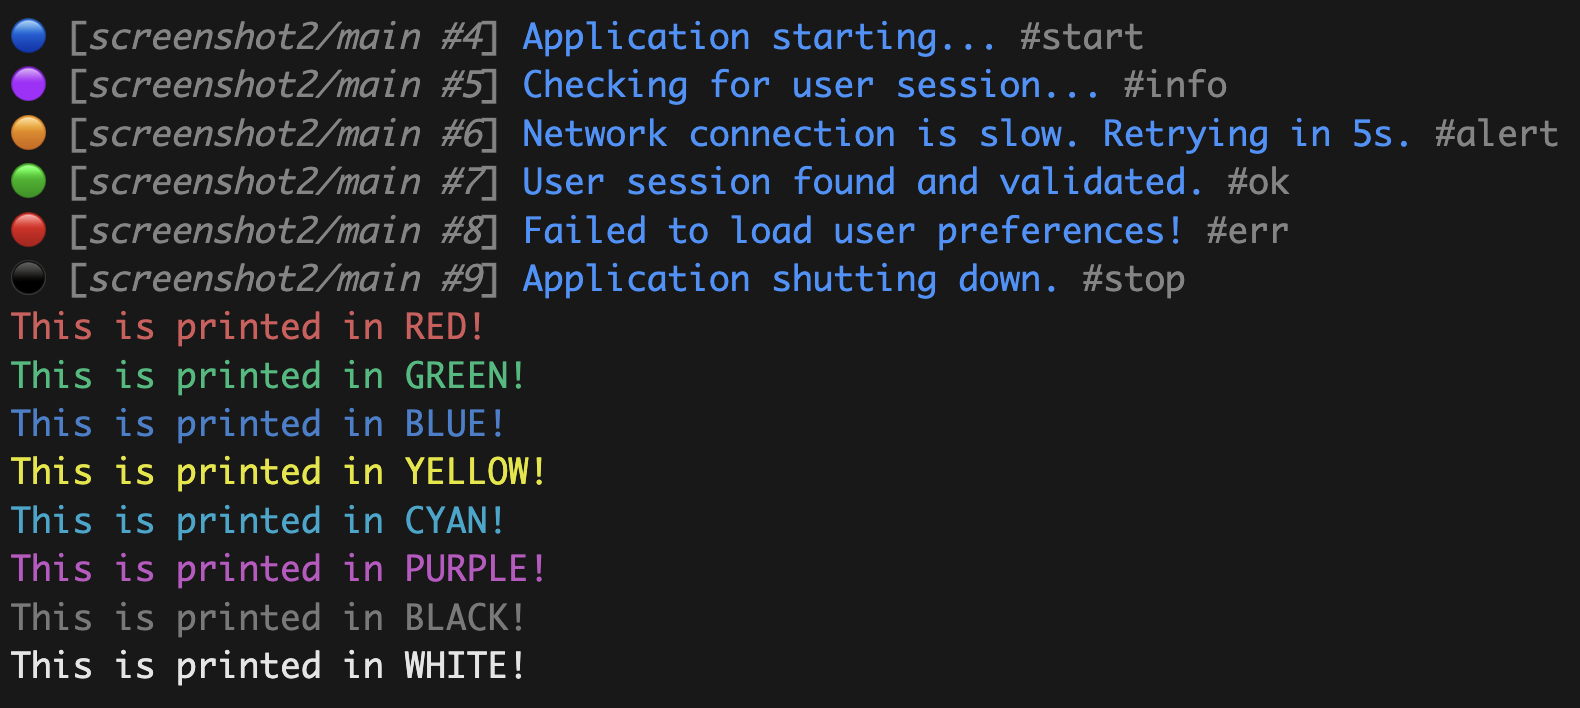
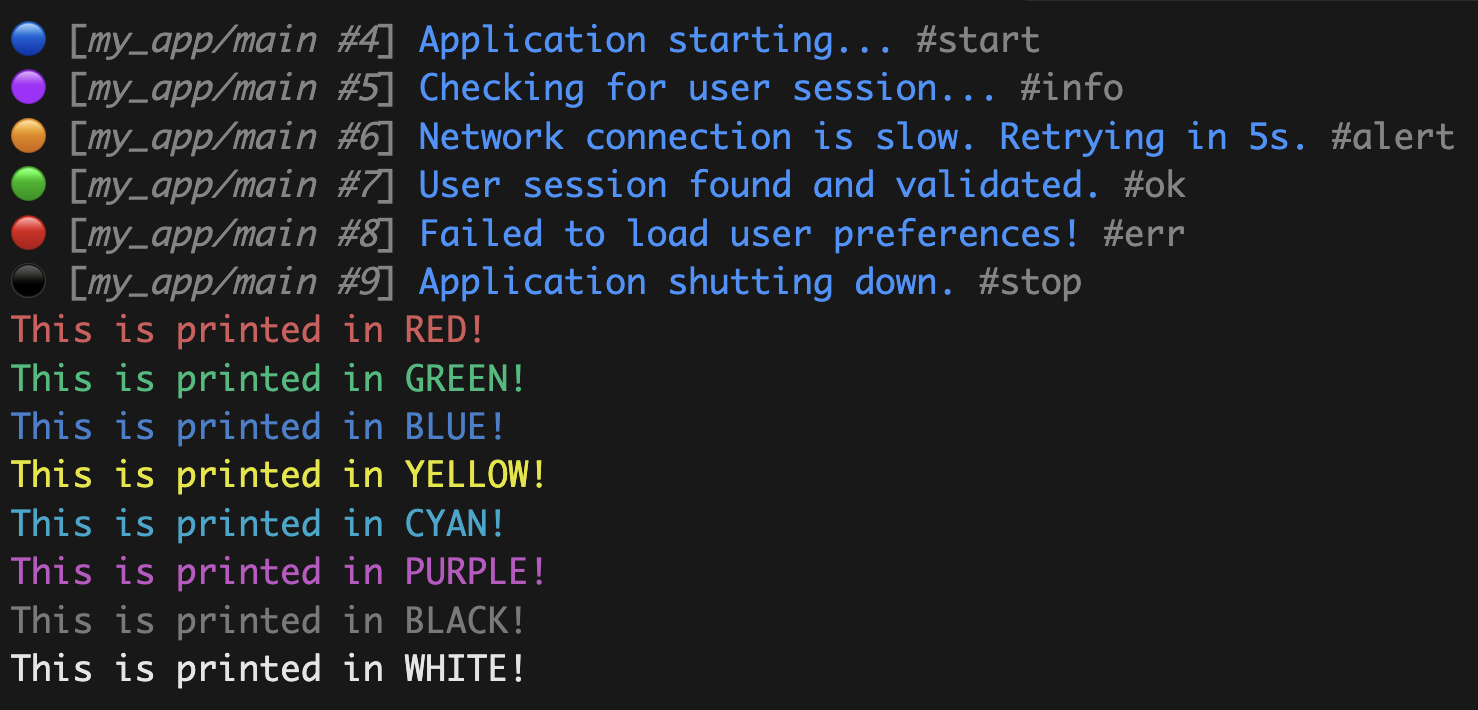
+Update docs

Changed region(s): [[0.0, 0.0311, 0.9959, 0.9633]]

diff --git a/ARTICLE.md b/ARTICLE.md
@@ -43,7 +43,7 @@ This is what's printed:
 This is the first "Aha!" moment. You instantly get three upgrades:
 
 - You can tell at a glance that this was a success: The `Log.ok` provides the category icon 🟢 and `#ok` tag.
-- You know exactly where this log came from: It came from `example.dart` and within the function main at line`#4`.
+- You know exactly where this log came from: It came from `my_app.dart` and within the function main at line`#4`.
 - In supported consoles, the output is beautifully colored, making it easy to scan.
 
 You've already saved yourself minutes of future debugging time!
